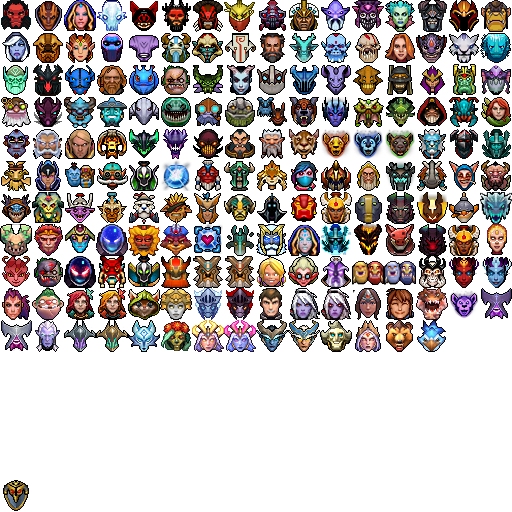
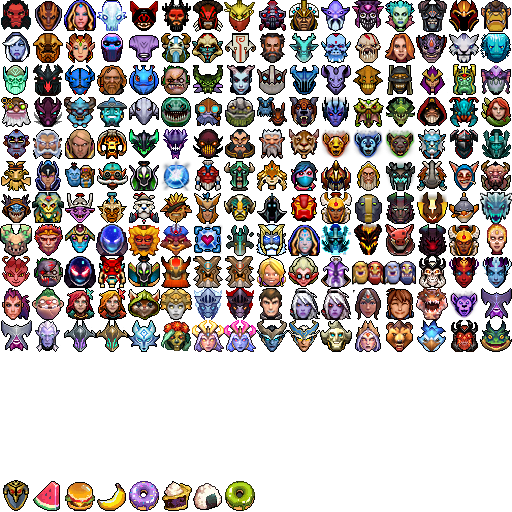
add largo

Changed region(s): [[0.0625, 0.9375, 0.5, 1.0], [0.875, 0.625, 1.0, 0.6875]]

diff --git a/demo.html b/demo.html
@@ -715,6 +715,14 @@
             <td>kez, npc_dota_hero_kez, hero-145</td>
         </tr>
         <tr>
+            <td><i class="d2mh skeleton_king_alt2"></i></td>
+            <td>skeleton_king_alt2, npc_dota_hero_skeleton_king_alt2</td>
+        </tr>
+        <tr>
+            <td><i class="d2mh largo"></i></td>
+            <td>largo, npc_dota_hero_largo, hero-155</td>
+        </tr>
+        <tr>
             <td><i class="d2mh "></i></td>
             <td>, unit_no_cc</td>
         </tr>

diff --git a/assets/stylesheets/dota2minimapheroes.css b/assets/stylesheets/dota2minimapheroes.css
@@ -702,6 +702,14 @@
     background-position: -416px -320px;
 }
 
+.d2mh.skeleton_king_alt2, .d2mh.npc_dota_hero_skeleton_king_alt2 { 
+    background-position: -448px -320px;
+}
+
+.d2mh.largo, .d2mh.npc_dota_hero_largo, .d2mh.hero-155 { 
+    background-position: -480px -320px;
+}
+
 .d2mh., .d2mh.unit_no_cc { 
     background-position: -0px -480px;
 }
